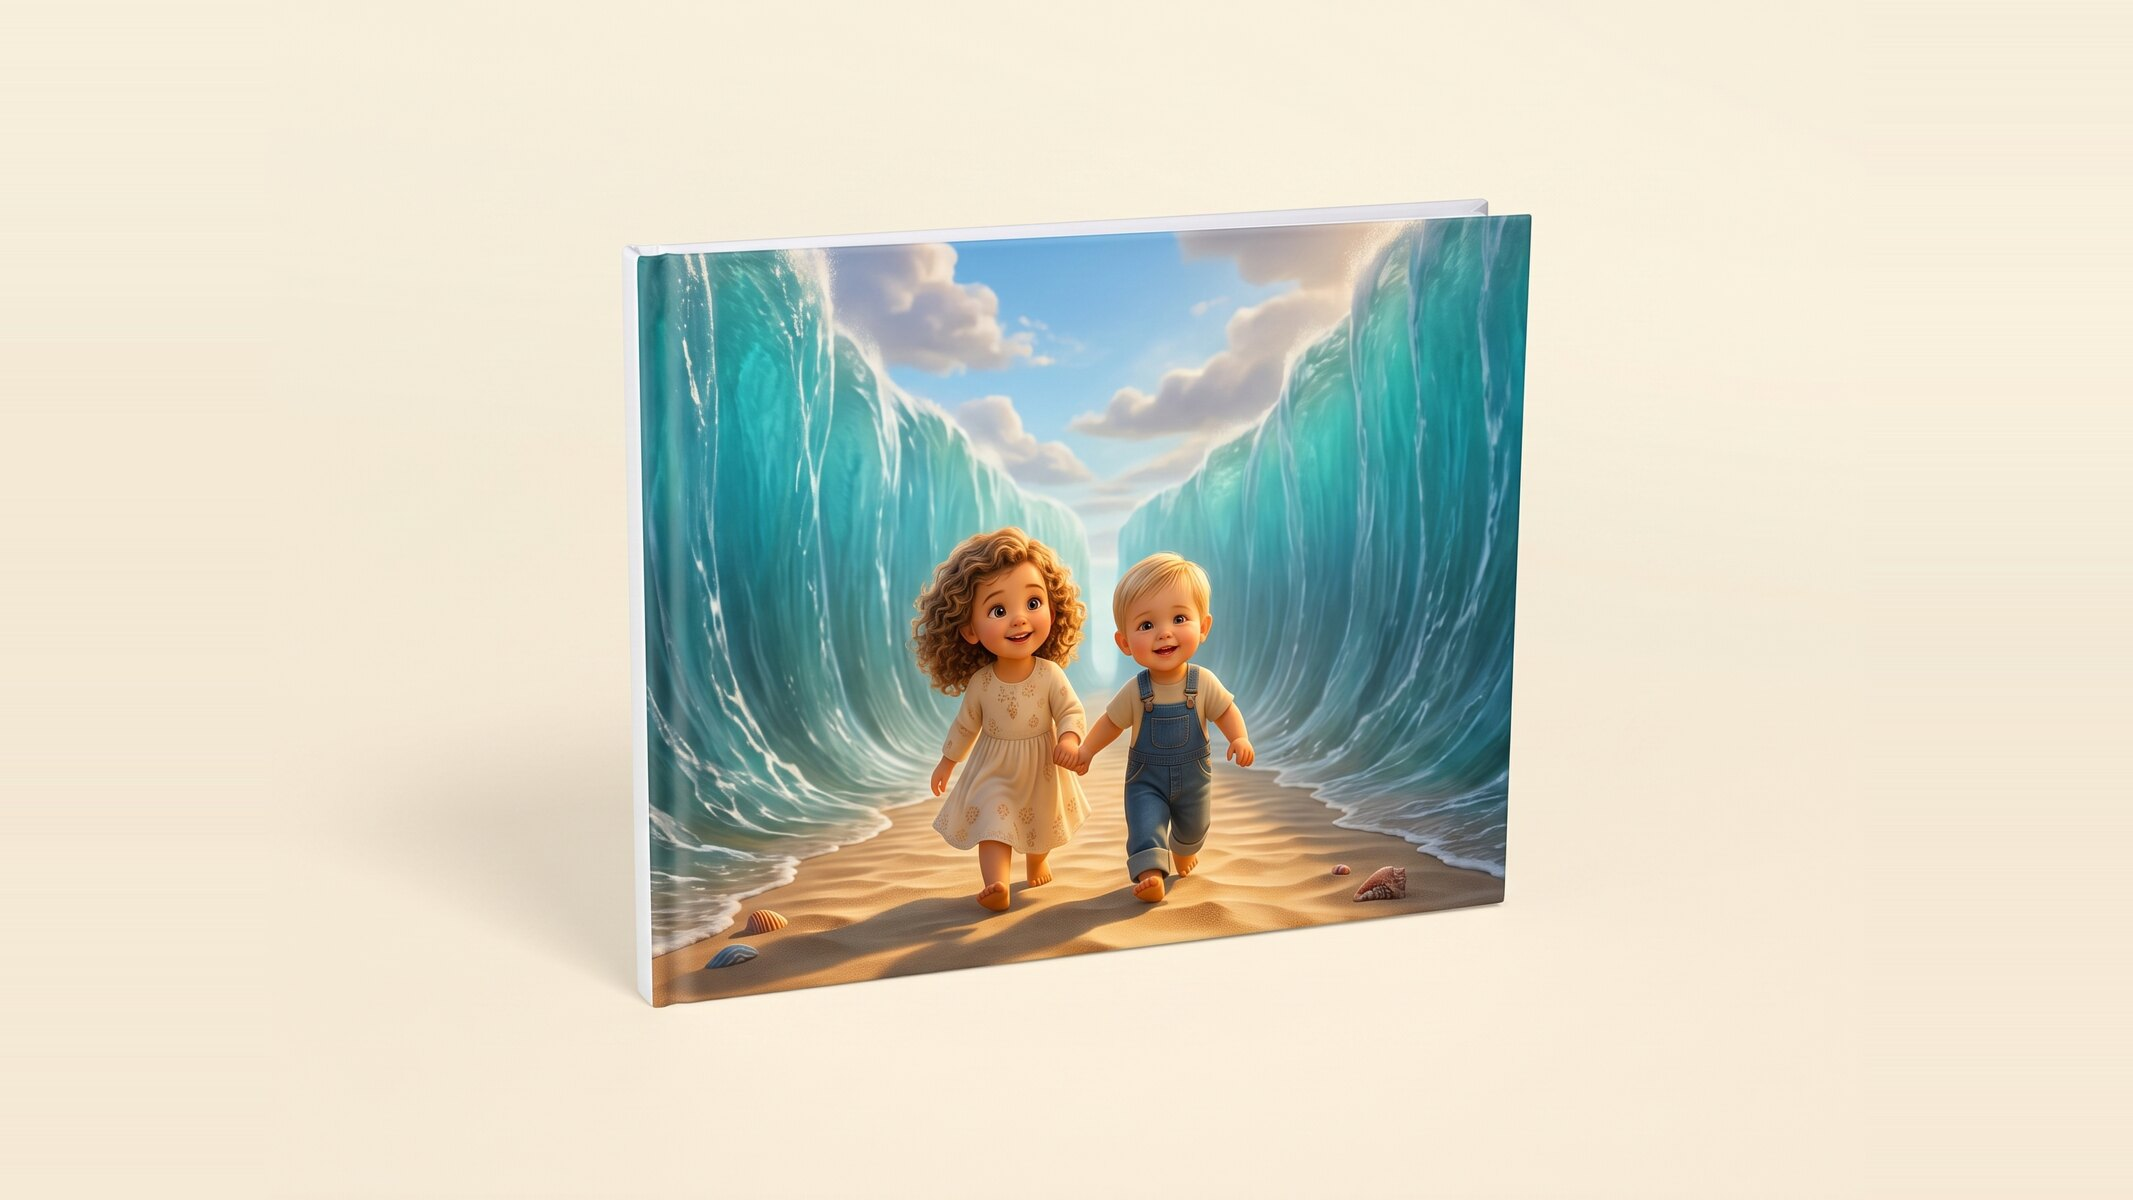
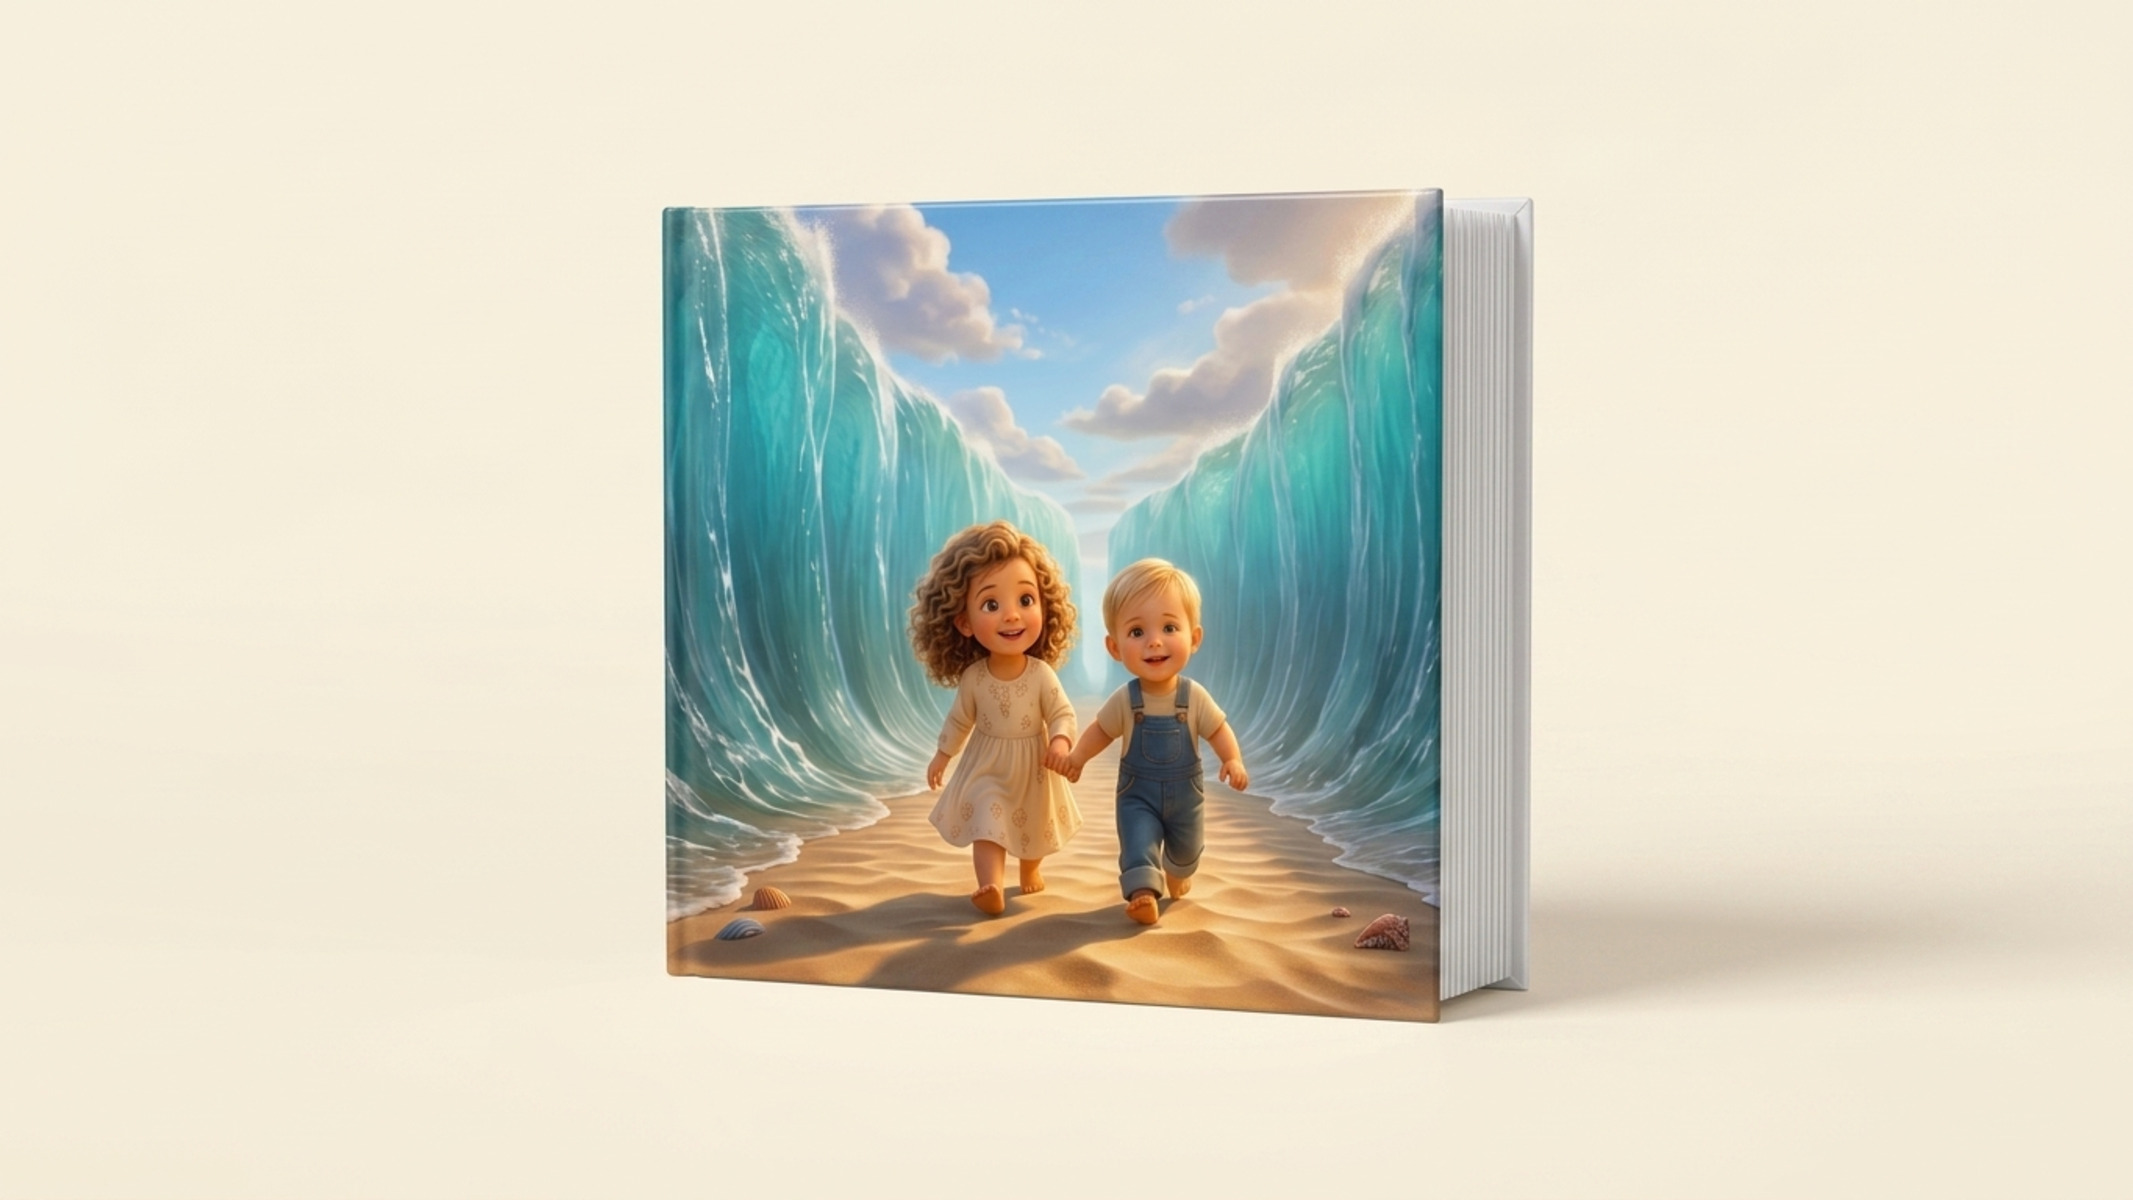
Hardcover mockup = square 8x8; tap a book photo to enlarge it in the wizard
- Replace the landscape hardcover mockup with a square 8x8 book (regenerated from
  the same cover art) so the product image matches the actual 8x8 size.
- Wizard book-type step: the product photo is now a zoom target — tapping it opens
  a larger preview in a dialog (with a magnifier affordance) instead of selecting
  the type; keyboard-accessible, stops propagation so selection is unaffected.

Changed region(s): [[0.2166, 0.1542, 0.9592, 0.8633], [0.526, 0.4008, 0.557, 0.4317]]

diff --git a/src/components/wizard/BookOptionsStep.tsx b/src/components/wizard/BookOptionsStep.tsx
@@ -1,5 +1,7 @@
-import { BookOpen, Shield, Baby, Palette } from "lucide-react";
+import { useState } from "react";
+import { BookOpen, Shield, Baby, Palette, ZoomIn } from "lucide-react";
 import { useLanguage } from "@/contexts/LanguageContext";
+import { Dialog, DialogContent } from "@/components/ui/dialog";
 
 import softcoverImg from "@/assets/books/mockup-softcover.jpg";
 import hardcoverImg from "@/assets/books/mockup-hardcover.jpg";
@@ -104,6 +106,8 @@ export const BookOptionsStep = ({ options, onChange, childAge = 0, hideHeader = 
   const { t } = useLanguage();
   const { symbol, rate, code } = t.currency;
   const recommendedType = getRecommendedType(childAge);
+  // Tapping a book photo opens a larger preview instead of selecting the type.
+  const [zoomed, setZoomed] = useState<{ src: string; label: string } | null>(null);
 
   const formatPrice = (usd: number, ils?: number) => {
     if (code === "ILS" && typeof ils === "number") return `${symbol}${ils.toFixed(2)}`;
@@ -174,8 +178,21 @@ export const BookOptionsStep = ({ options, onChange, childAge = 0, hideHeader = 
               )}
 
               <div className="flex items-start gap-4">
-                <div className="w-20 h-20 rounded-xl overflow-hidden bg-muted/30 shrink-0 border border-border/50">
+                <div
+                  role="button"
+                  tabIndex={0}
+                  aria-label={`Enlarge ${productLabels[key]} photo`}
+                  onClick={(e) => { e.stopPropagation(); setZoomed({ src: info.image, label: productLabels[key] }); }}
+                  onKeyDown={(e) => { if (e.key === "Enter" || e.key === " ") { e.preventDefault(); e.stopPropagation(); setZoomed({ src: info.image, label: productLabels[key] }); } }}
+                  className="group/img relative w-20 h-20 rounded-xl overflow-hidden bg-muted/30 shrink-0 border border-border/50 cursor-zoom-in"
+                >
                   <img src={info.image} alt={productLabels[key]} className="w-full h-full object-cover" loading="lazy" width={80} height={80} />
+                  <div className="absolute inset-0 flex items-center justify-center bg-black/0 group-hover/img:bg-black/25 transition-colors">
+                    <ZoomIn className="w-5 h-5 text-white opacity-0 group-hover/img:opacity-100 transition-opacity drop-shadow" />
+                  </div>
+                  <div className="absolute bottom-0.5 right-0.5 rounded-full bg-black/45 p-0.5">
+                    <ZoomIn className="w-3 h-3 text-white" />
+                  </div>
                 </div>
 
                 <div className="flex-1 min-w-0">
@@ -199,6 +216,18 @@ export const BookOptionsStep = ({ options, onChange, childAge = 0, hideHeader = 
 
       {/* The coloring book is sold only as a standalone product (above), not as a
           +$3 add-on. */}
+
+      {/* Enlarged book-type photo */}
+      <Dialog open={!!zoomed} onOpenChange={(o) => !o && setZoomed(null)}>
+        <DialogContent className="max-w-2xl p-2 sm:p-3 bg-background">
+          {zoomed && (
+            <div className="flex flex-col items-center gap-2">
+              <img src={zoomed.src} alt={zoomed.label} className="w-full h-auto rounded-lg object-contain" />
+              <p className="font-display font-semibold text-sm text-primary pb-1">{zoomed.label}</p>
+            </div>
+          )}
+        </DialogContent>
+      </Dialog>
     </div>
   );
 };
